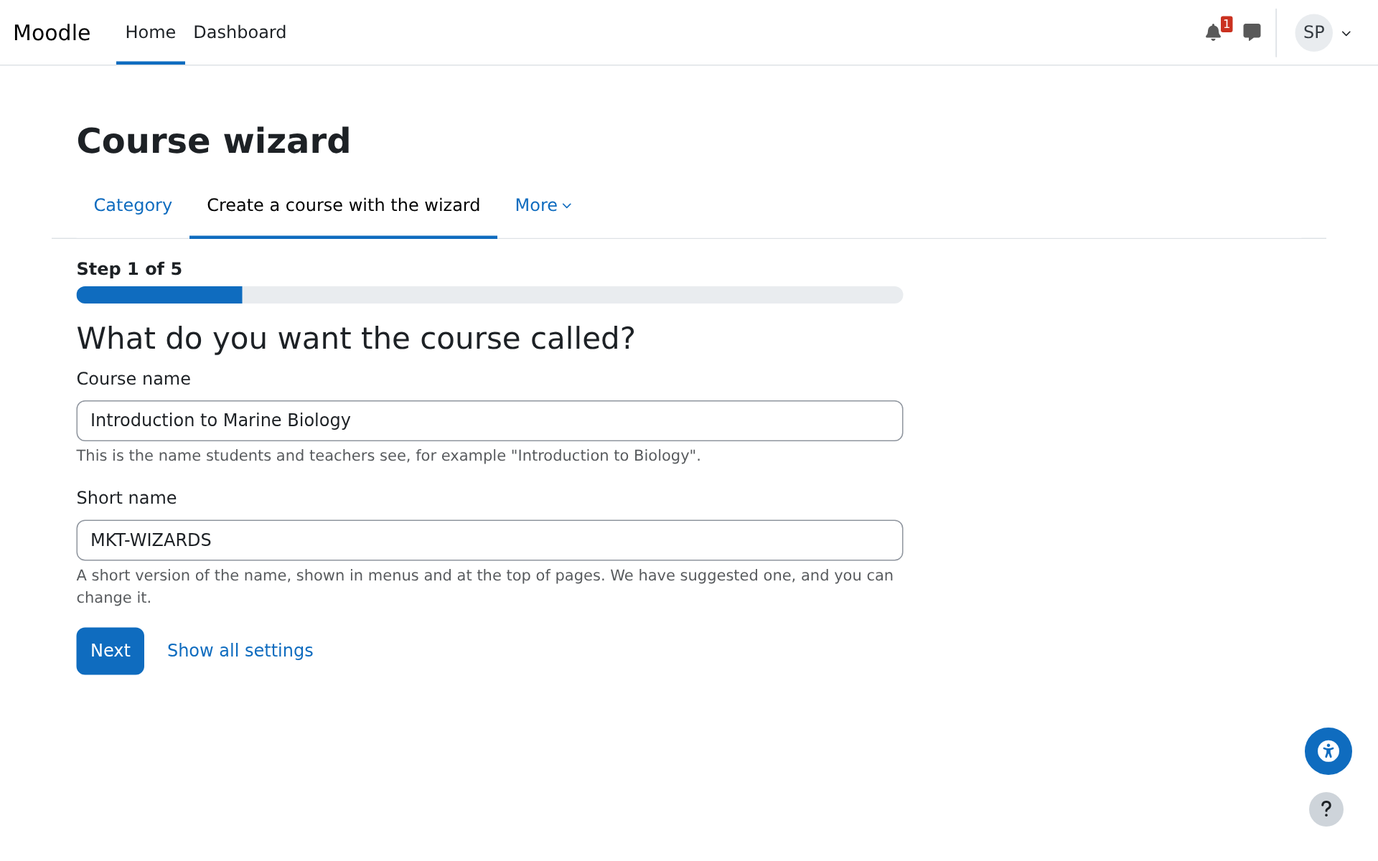
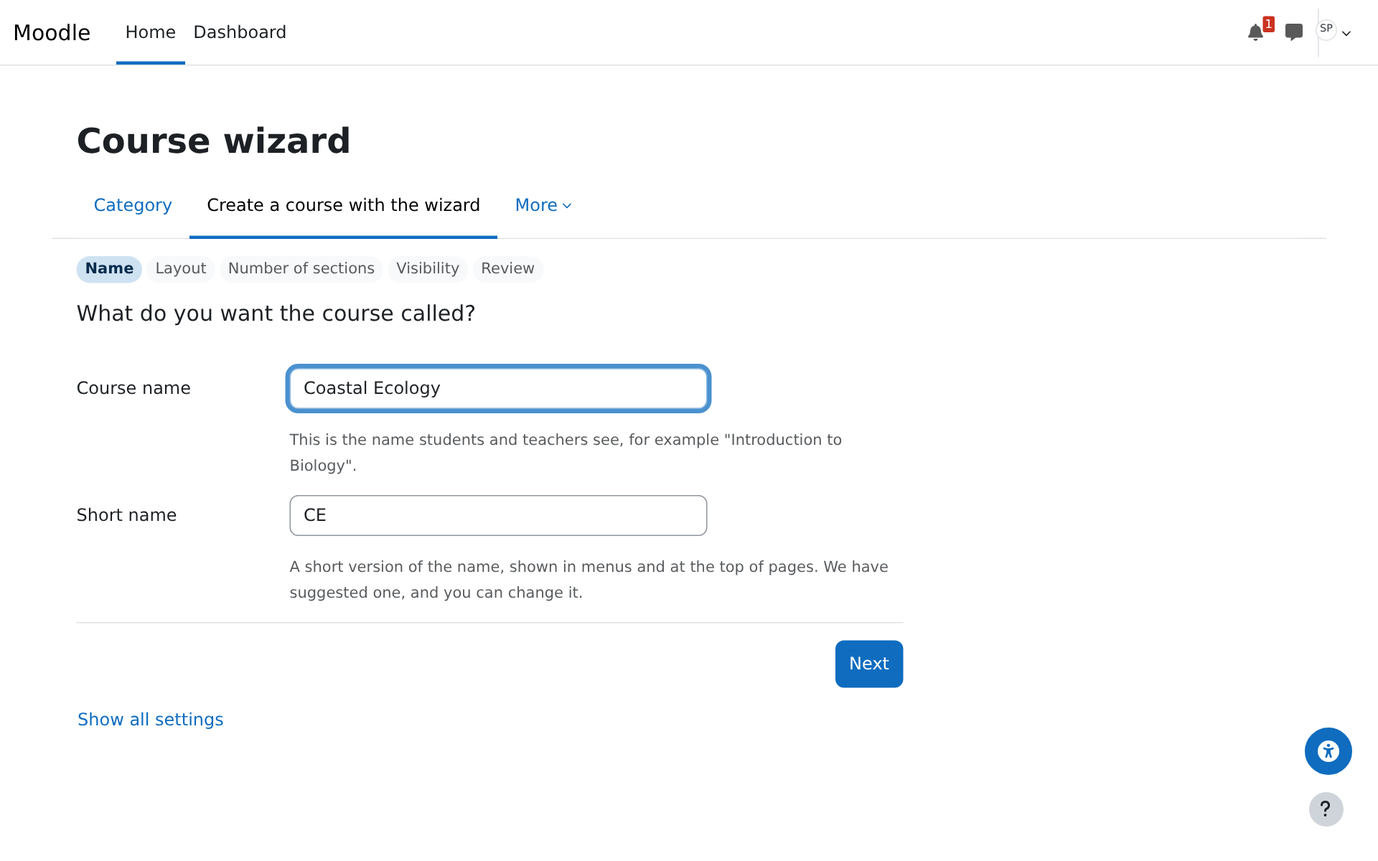
Suggest short names without the year; refresh the camp listing
The course wizard now suggests a course's initials as its short name
("Coastal Ecology" becomes "CE"), without the year, since courses are often
reused from year to year. A number is still added when the name is taken.

Fix three display problems found while taking new screenshots: the course
wizard page showed its heading twice, the review screen listed each layout
choice as a separate answer, and the wizard builder's settings step showed a
course's navigation because the page renderer stayed attached to the page
used to read the activity form.

Replace the camp listing screenshots with ten new ones covering the course
and activity wizards, "Add with a wizard", and managing, editing and building
wizards. Rewrite the listing's summary, description and captions to match,
within the camp schema's limits (ten screenshots, captions of 120 characters).

diff --git a/amd/build/modal_stepper.min.js b/amd/build/modal_stepper.min.js
@@ -11,6 +11,6 @@ define("tool_wizards/modal_stepper",["exports","core/ajax","core_form/events","c
    * @module     tool_wizards/modal_stepper
    * @copyright  2026 Adam Jenkins <adam@wisecat.net>
    * @license    http://www.gnu.org/copyleft/gpl.html GNU GPL v3 or later
-   */Object.defineProperty(_exports,"__esModule",{value:!0}),_exports.init=void 0,_ajax=(obj=_ajax)&&obj.__esModule?obj:{default:obj};const hasError=step=>!!step.querySelector('.is-invalid, [aria-invalid="true"]')||Array.from(step.querySelectorAll(".invalid-feedback, .error")).some((el=>""!==el.textContent.trim()));_exports.init=selector=>{const form=document.querySelector(selector);form&&!form.dataset.stepperInitialised&&(form.dataset.stepperInitialised="1",new Stepper(form).start())};const data=(el,name,fallback)=>{try{return el.dataset[name]?JSON.parse(el.dataset[name]):fallback}catch(e){return fallback}};class Stepper{constructor(form){this.form=form,this.steps=Array.from(form.querySelectorAll("fieldset.tool_wizards-step")),this.nav=form.querySelector('[data-region="tool_wizards-stepnav"]'),this.presets=this.nav?data(this.nav,"presets",{}):{},this.touched=new Set,this.filling=!1,this.current=0,this.suggesttimer=null}start(){var _this$nav$querySelect;if(!this.nav||!this.steps.length)return;this.hideModalSave(),null===(_this$nav$querySelect=this.nav.querySelector('[data-wizard="nojs"]'))||void 0===_this$nav$querySelect||_this$nav$querySelect.remove(),this.progress=this.buildProgress(),this.nav.addEventListener("click",(e=>{const button=e.target.closest("[data-wizard]");button&&(e.preventDefault(),this.act(button.dataset.wizard))})),this.form.addEventListener("click",(e=>{const change=e.target.closest("[data-wizard-goto]");change&&(e.preventDefault(),this.show(Number(change.dataset.wizardGoto),!0))})),this.form.addEventListener("keydown",(e=>{"Enter"!==e.key||"INPUT"!==e.target.tagName||["submit","button"].includes(e.target.type)||(e.preventDefault(),this.act(this.isLast()?"add":"next"))})),this.form.addEventListener("change",(e=>{const name=e.target.name;!this.filling&&name&&(this.touched.add(name),this.presets[name]&&this.presets[name][this.value(name)]&&this.applyPreset(this.presets[name][this.value(name)]),this.applyConditions())})),this.form.addEventListener("input",(()=>this.applyConditions())),this.setupShortname(),this.applyConditions();const withError=this.steps.findIndex(hasError);this.show(withError>0?withError:0,withError>0)}act(action){"back"===action?this.show(this.neighbour(-1),!0):"next"===action?this.checkStep()&&this.show(this.neighbour(1),!0):"go"!==action&&"add"!==action||this.checkStep()&&this.form.requestSubmit()}neighbour(direction){for(let i=this.current+direction;i>=0&&i<this.steps.length;i+=direction)if(this.applies(this.steps[i]))return i;return this.current}applies(step){if(!this.holds(data(step,"when",null)))return!1;const conds=data(step,"itemwhen",{}),items=data(step,"items",[]);return!items.length||items.some((key=>!conds[key]||this.holds(conds[key])))}isLast(){return this.neighbour(1)===this.current}show(index,focus){this.current=index,this.steps.forEach(((step,i)=>{step.hidden=i!==index}));const button=name=>this.nav.querySelector('[data-wizard="'.concat(name,'"]')),first=this.neighbour(-1)===index;var _this$steps$index$que;(button("back").hidden=first,button("next").hidden=this.isLast(),button("add").hidden=!this.isLast(),button("go").hidden=first||this.isLast(),this.steps[index].querySelector('[data-region="tool_wizards-review"]')&&this.buildReview(this.steps[index].querySelector('[data-region="tool_wizards-review"]')),this.updateProgress(),focus)&&(null===(_this$steps$index$que=this.steps[index].querySelector("legend"))||void 0===_this$steps$index$que||_this$steps$index$que.focus())}buildProgress(){if(this.steps.length<2)return null;const list=document.createElement("ol");return list.className="tool_wizards-progress list-unstyled d-flex flex-wrap gap-1 small mb-3",list.setAttribute("aria-label",this.nav.dataset.progresslabel),this.steps.forEach((step=>{const item=document.createElement("li");item.textContent=step.dataset.title,list.append(item)})),this.steps[0].before(list),list}updateProgress(){var _this$progress;null===(_this$progress=this.progress)||void 0===_this$progress||_this$progress.querySelectorAll("li").forEach(((item,i)=>{item.hidden=!this.applies(this.steps[i]),item.classList.toggle("active",i===this.current),item.classList.toggle("done",i<this.current),i===this.current?item.setAttribute("aria-current","step"):item.removeAttribute("aria-current")}))}value(name){const controls=Array.from(this.form.querySelectorAll('[name="'.concat(CSS.escape(name),'"]')));if(!controls.length){const editor=this.form.querySelector('[name="'.concat(CSS.escape(name),'[text]"]'));return editor?editor.value:null}if("radio"===controls[0].type){const checked=controls.find((c=>c.checked));return checked?checked.value:null}const checkbox=controls.find((c=>"checkbox"===c.type));return checkbox?checkbox.checked?checkbox.value||"1":"0":controls[controls.length-1].value}flags(name){const checked=this.form.querySelector('input[name="'.concat(CSS.escape(name),'"]:checked')),holder=null==checked?void 0:checked.closest("[data-flags]");return holder?holder.dataset.flags.split(" "):[]}holds(cond){if(null==cond||!0===cond)return!0;if(!1===cond)return!1;if(cond.all)return cond.all.every((c=>this.holds(c)));if(cond.any)return cond.any.some((c=>this.holds(c)));if("not"in cond&&!("answer"in cond))return!this.holds(cond.not);if("answer"in cond){const value=this.value(cond.answer);if("is"in cond)return null!==value&&value===String(cond.is);if("not"in cond)return null===value||value!==String(cond.not);if("in"in cond)return null!==value&&cond.in.map(String).includes(value);if("has"in cond)return this.flags(cond.answer).includes(cond.has);if("empty"in cond)return""===(null!=value?value:"").trim()==!!cond.empty}return!1}applyConditions(){this.steps.forEach((step=>{const conds=data(step,"itemwhen",{});Object.entries(conds).forEach((_ref=>{let[key,cond]=_ref;const container=this.container(key);container&&(container.hidden=!this.holds(cond))}))})),this.form.querySelectorAll(".tool_wizards-cardinput[data-when]").forEach((label=>{const ok=this.holds(data(label,"when",null)),input=label.querySelector("input");label.hidden=!ok,!ok&&null!=input&&input.checked&&(input.checked=!1)})),this.updateProgress()}container(key){const group=this.form.querySelector('[data-groupname="'.concat(CSS.escape(key),'group"]'));if(group)return group;const marked=this.form.querySelector('[data-wizard-question="'.concat(CSS.escape(key),'"]'));if(marked)return marked.closest(".fitem")||marked;const control=this.form.querySelector('[name="'.concat(CSS.escape(key),'"], [name^="').concat(CSS.escape(key),'["]'));return control?control.closest(".fitem"):null}checkStep(){const step=this.steps[this.current];(0,_events.notifyFormSubmittedByJavascript)(this.form);let ok=!0;var _step$querySelector;(data(step,"required",[]).forEach((entry=>{const key="string"==typeof entry?entry:entry.key;if("string"!=typeof entry&&!this.holds(entry.when))return;const container=this.container(key);if(null!=container&&container.hidden)return;const value=this.value(key),text=(null!=value?value:"").replace(/<(?!img|video|audio|iframe|object)[^>]*>/gi,"").replace(/&nbsp;/g," ");if(null===value||""===text.trim()){const target=this.form.querySelector('[name="'.concat(CSS.escape(key),'"], [name="').concat(CSS.escape(key),'[text]"]'));target&&this.markInvalid(target),ok=!1}})),ok)?null===(_step$querySelector=step.querySelector(".tool_wizards-steperror"))||void 0===_step$querySelector||_step$querySelector.remove():this.showStepError(step);return ok}markInvalid(input){input.classList.add("is-invalid"),input.setAttribute("aria-invalid","true");const clear=()=>{this.form.querySelectorAll('[name="'.concat(CSS.escape(input.name),'"]')).forEach((el=>{el.classList.remove("is-invalid"),el.removeAttribute("aria-invalid")}))};input.addEventListener("input",clear,{once:!0}),input.addEventListener("change",clear,{once:!0})}async showStepError(step){var _step$querySelector2;let message=step.querySelector(".tool_wizards-steperror");message||(message=document.createElement("div"),message.className="tool_wizards-steperror alert alert-danger py-2",message.setAttribute("role","alert"),step.querySelector("legend").after(message)),message.textContent=await(0,_str.getString)("error_stepincomplete","tool_wizards"),null===(_step$querySelector2=step.querySelector('[aria-invalid="true"]'))||void 0===_step$querySelector2||_step$querySelector2.focus()}applyPreset(preset){this.filling=!0,Object.entries(preset).forEach((_ref2=>{let[name,value]=_ref2;this.touched.has(name)||this.form.querySelectorAll('[name="'.concat(CSS.escape(name),'"]')).forEach((control=>{if("radio"===control.type)control.checked=control.value===String(value);else if("checkbox"===control.type)control.checked="1"===String(value);else{if("hidden"===control.type)return;control.value=String(value)}control.dispatchEvent(new Event("change",{bubbles:!0}))}))})),this.filling=!1}async buildReview(region){const[changeLabel,yes,no]=await(0,_str.getStrings)([{key:"change",component:"tool_wizards"},{key:"yes",component:"core"},{key:"no",component:"core"}]),list=document.createElement("dl");list.className="row",this.steps.forEach(((step,index)=>{index>=this.current||!this.applies(step)||step.querySelectorAll(".fitem").forEach((item=>{var _item$querySelector;if(item.hidden||item.closest("[hidden]")!==step&&item.closest("[hidden]"))return;const answer=this.describeItem(item,yes,no);if(null===answer)return;const label=(null===(_item$querySelector=item.querySelector(".col-form-label label, .col-form-label p, .col-form-label"))||void 0===_item$querySelector?void 0:_item$querySelector.textContent.trim())||step.dataset.title,dt=document.createElement("dt");dt.className="col-sm-4",dt.textContent=label;const dd=document.createElement("dd");dd.className="col-sm-8",dd.textContent=answer+" ";const change=document.createElement("button");change.type="button",change.className="btn btn-link btn-sm p-0 align-baseline",change.dataset.wizardGoto=String(index),change.textContent=changeLabel,dd.append(change),list.append(dt,dd)}))})),region.replaceChildren(list)}describeItem(item,yes,no){const checkedRadio=item.querySelector('input[type="radio"]:checked');var _checkedRadio$closest,_checkedRadio$closest2,_checkedRadio$closest3;if(item.querySelector('input[type="radio"]'))return checkedRadio?(null===(_checkedRadio$closest=checkedRadio.closest("label"))||void 0===_checkedRadio$closest||null===(_checkedRadio$closest2=_checkedRadio$closest.querySelector("strong"))||void 0===_checkedRadio$closest2?void 0:_checkedRadio$closest2.textContent)||(null===(_checkedRadio$closest3=checkedRadio.closest("label"))||void 0===_checkedRadio$closest3?void 0:_checkedRadio$closest3.textContent.trim())||checkedRadio.value:"–";const select=item.querySelector("select");var _select$options$selec,_select$options$selec2;if(select&&!item.querySelector('[name$="[day]"]'))return null!==(_select$options$selec=null===(_select$options$selec2=select.options[select.selectedIndex])||void 0===_select$options$selec2?void 0:_select$options$selec2.textContent.trim())&&void 0!==_select$options$selec?_select$options$selec:"";if(item.querySelector('[name$="[day]"]')){const enabled=item.querySelector('input[name$="[enabled]"]');return enabled&&!enabled.checked?"–":Array.from(item.querySelectorAll("select")).map((s=>{var _s$options$s$selected;return null===(_s$options$s$selected=s.options[s.selectedIndex])||void 0===_s$options$s$selected?void 0:_s$options$s$selected.textContent.trim()})).join(" ")}const checkbox=item.querySelector('input[type="checkbox"]');if(checkbox)return checkbox.checked?yes:no;const text=item.querySelector('input[type="text"], textarea');return text?text.value.trim()||"–":null}setupShortname(){const shortname=this.form.querySelector("[data-wizard-shortname]");if(!shortname)return;const source=shortname.dataset.wizardShortname?this.form.querySelector('[name="'.concat(CSS.escape(shortname.dataset.wizardShortname),'"]')):null;let edited=""!==shortname.value.trim();shortname.addEventListener("input",(()=>{edited=""!==shortname.value.trim()})),null==source||source.addEventListener("input",(()=>{edited||(clearTimeout(this.suggesttimer),this.suggesttimer=setTimeout((async()=>{if(edited||""===source.value.trim())return;const result=await _ajax.default.call([{methodname:"tool_wizards_suggest_shortname",args:{fullname:source.value}}])[0];edited||(shortname.value=result.shortname)}),400))})),shortname.addEventListener("change",(async()=>{var _shortname$closest;if(""===shortname.value.trim())return;const result=await _ajax.default.call([{methodname:"tool_wizards_check_shortname",args:{shortname:shortname.value}}])[0],feedback=null===(_shortname$closest=shortname.closest(".fitem"))||void 0===_shortname$closest?void 0:_shortname$closest.querySelector(".form-control-feedback");!result.available&&feedback?(feedback.textContent=await(0,_str.getString)("shortname_taken","tool_wizards",{suggestion:result.suggestion}),feedback.style.display="block",shortname.classList.add("is-invalid")):feedback&&(feedback.textContent="",shortname.classList.remove("is-invalid"))}))}hideModalSave(){var _this$form$closest;const save=null===(_this$form$closest=this.form.closest(".modal"))||void 0===_this$form$closest?void 0:_this$form$closest.querySelector('.modal-footer [data-action="save"]');save&&(save.hidden=!0,save.classList.add("d-none"))}}}));
+   */Object.defineProperty(_exports,"__esModule",{value:!0}),_exports.init=void 0,_ajax=(obj=_ajax)&&obj.__esModule?obj:{default:obj};const hasError=step=>!!step.querySelector('.is-invalid, [aria-invalid="true"]')||Array.from(step.querySelectorAll(".invalid-feedback, .error")).some((el=>""!==el.textContent.trim()));_exports.init=selector=>{const form=document.querySelector(selector);form&&!form.dataset.stepperInitialised&&(form.dataset.stepperInitialised="1",new Stepper(form).start())};const data=(el,name,fallback)=>{try{return el.dataset[name]?JSON.parse(el.dataset[name]):fallback}catch(e){return fallback}};class Stepper{constructor(form){this.form=form,this.steps=Array.from(form.querySelectorAll("fieldset.tool_wizards-step")),this.nav=form.querySelector('[data-region="tool_wizards-stepnav"]'),this.presets=this.nav?data(this.nav,"presets",{}):{},this.touched=new Set,this.filling=!1,this.current=0,this.suggesttimer=null}start(){var _this$nav$querySelect;if(!this.nav||!this.steps.length)return;this.hideModalSave(),null===(_this$nav$querySelect=this.nav.querySelector('[data-wizard="nojs"]'))||void 0===_this$nav$querySelect||_this$nav$querySelect.remove(),this.progress=this.buildProgress(),this.nav.addEventListener("click",(e=>{const button=e.target.closest("[data-wizard]");button&&(e.preventDefault(),this.act(button.dataset.wizard))})),this.form.addEventListener("click",(e=>{const change=e.target.closest("[data-wizard-goto]");change&&(e.preventDefault(),this.show(Number(change.dataset.wizardGoto),!0))})),this.form.addEventListener("keydown",(e=>{"Enter"!==e.key||"INPUT"!==e.target.tagName||["submit","button"].includes(e.target.type)||(e.preventDefault(),this.act(this.isLast()?"add":"next"))})),this.form.addEventListener("change",(e=>{const name=e.target.name;!this.filling&&name&&(this.touched.add(name),this.presets[name]&&this.presets[name][this.value(name)]&&this.applyPreset(this.presets[name][this.value(name)]),this.applyConditions())})),this.form.addEventListener("input",(()=>this.applyConditions())),this.setupShortname(),this.applyConditions();const withError=this.steps.findIndex(hasError);this.show(withError>0?withError:0,withError>0)}act(action){"back"===action?this.show(this.neighbour(-1),!0):"next"===action?this.checkStep()&&this.show(this.neighbour(1),!0):"go"!==action&&"add"!==action||this.checkStep()&&this.form.requestSubmit()}neighbour(direction){for(let i=this.current+direction;i>=0&&i<this.steps.length;i+=direction)if(this.applies(this.steps[i]))return i;return this.current}applies(step){if(!this.holds(data(step,"when",null)))return!1;const conds=data(step,"itemwhen",{}),items=data(step,"items",[]);return!items.length||items.some((key=>!conds[key]||this.holds(conds[key])))}isLast(){return this.neighbour(1)===this.current}show(index,focus){this.current=index,this.steps.forEach(((step,i)=>{step.hidden=i!==index}));const button=name=>this.nav.querySelector('[data-wizard="'.concat(name,'"]')),first=this.neighbour(-1)===index;var _this$steps$index$que;(button("back").hidden=first,button("next").hidden=this.isLast(),button("add").hidden=!this.isLast(),button("go").hidden=first||this.isLast(),this.steps[index].querySelector('[data-region="tool_wizards-review"]')&&this.buildReview(this.steps[index].querySelector('[data-region="tool_wizards-review"]')),this.updateProgress(),focus)&&(null===(_this$steps$index$que=this.steps[index].querySelector("legend"))||void 0===_this$steps$index$que||_this$steps$index$que.focus())}buildProgress(){if(this.steps.length<2)return null;const list=document.createElement("ol");return list.className="tool_wizards-progress list-unstyled d-flex flex-wrap gap-1 small mb-3",list.setAttribute("aria-label",this.nav.dataset.progresslabel),this.steps.forEach((step=>{const item=document.createElement("li");item.textContent=step.dataset.title,list.append(item)})),this.steps[0].before(list),list}updateProgress(){var _this$progress;null===(_this$progress=this.progress)||void 0===_this$progress||_this$progress.querySelectorAll("li").forEach(((item,i)=>{item.hidden=!this.applies(this.steps[i]),item.classList.toggle("active",i===this.current),item.classList.toggle("done",i<this.current),i===this.current?item.setAttribute("aria-current","step"):item.removeAttribute("aria-current")}))}value(name){const controls=Array.from(this.form.querySelectorAll('[name="'.concat(CSS.escape(name),'"]')));if(!controls.length){const editor=this.form.querySelector('[name="'.concat(CSS.escape(name),'[text]"]'));return editor?editor.value:null}if("radio"===controls[0].type){const checked=controls.find((c=>c.checked));return checked?checked.value:null}const checkbox=controls.find((c=>"checkbox"===c.type));return checkbox?checkbox.checked?checkbox.value||"1":"0":controls[controls.length-1].value}flags(name){const checked=this.form.querySelector('input[name="'.concat(CSS.escape(name),'"]:checked')),holder=null==checked?void 0:checked.closest("[data-flags]");return holder?holder.dataset.flags.split(" "):[]}holds(cond){if(null==cond||!0===cond)return!0;if(!1===cond)return!1;if(cond.all)return cond.all.every((c=>this.holds(c)));if(cond.any)return cond.any.some((c=>this.holds(c)));if("not"in cond&&!("answer"in cond))return!this.holds(cond.not);if("answer"in cond){const value=this.value(cond.answer);if("is"in cond)return null!==value&&value===String(cond.is);if("not"in cond)return null===value||value!==String(cond.not);if("in"in cond)return null!==value&&cond.in.map(String).includes(value);if("has"in cond)return this.flags(cond.answer).includes(cond.has);if("empty"in cond)return""===(null!=value?value:"").trim()==!!cond.empty}return!1}applyConditions(){this.steps.forEach((step=>{const conds=data(step,"itemwhen",{});Object.entries(conds).forEach((_ref=>{let[key,cond]=_ref;const container=this.container(key);container&&(container.hidden=!this.holds(cond))}))})),this.form.querySelectorAll(".tool_wizards-cardinput[data-when]").forEach((label=>{const ok=this.holds(data(label,"when",null)),input=label.querySelector("input");label.hidden=!ok,!ok&&null!=input&&input.checked&&(input.checked=!1)})),this.updateProgress()}container(key){const group=this.form.querySelector('[data-groupname="'.concat(CSS.escape(key),'group"]'));if(group)return group;const marked=this.form.querySelector('[data-wizard-question="'.concat(CSS.escape(key),'"]'));if(marked)return marked.closest(".fitem")||marked;const control=this.form.querySelector('[name="'.concat(CSS.escape(key),'"], [name^="').concat(CSS.escape(key),'["]'));return control?control.closest(".fitem"):null}checkStep(){const step=this.steps[this.current];(0,_events.notifyFormSubmittedByJavascript)(this.form);let ok=!0;var _step$querySelector;(data(step,"required",[]).forEach((entry=>{const key="string"==typeof entry?entry:entry.key;if("string"!=typeof entry&&!this.holds(entry.when))return;const container=this.container(key);if(null!=container&&container.hidden)return;const value=this.value(key),text=(null!=value?value:"").replace(/<(?!img|video|audio|iframe|object)[^>]*>/gi,"").replace(/&nbsp;/g," ");if(null===value||""===text.trim()){const target=this.form.querySelector('[name="'.concat(CSS.escape(key),'"], [name="').concat(CSS.escape(key),'[text]"]'));target&&this.markInvalid(target),ok=!1}})),ok)?null===(_step$querySelector=step.querySelector(".tool_wizards-steperror"))||void 0===_step$querySelector||_step$querySelector.remove():this.showStepError(step);return ok}markInvalid(input){input.classList.add("is-invalid"),input.setAttribute("aria-invalid","true");const clear=()=>{this.form.querySelectorAll('[name="'.concat(CSS.escape(input.name),'"]')).forEach((el=>{el.classList.remove("is-invalid"),el.removeAttribute("aria-invalid")}))};input.addEventListener("input",clear,{once:!0}),input.addEventListener("change",clear,{once:!0})}async showStepError(step){var _step$querySelector2;let message=step.querySelector(".tool_wizards-steperror");message||(message=document.createElement("div"),message.className="tool_wizards-steperror alert alert-danger py-2",message.setAttribute("role","alert"),step.querySelector("legend").after(message)),message.textContent=await(0,_str.getString)("error_stepincomplete","tool_wizards"),null===(_step$querySelector2=step.querySelector('[aria-invalid="true"]'))||void 0===_step$querySelector2||_step$querySelector2.focus()}applyPreset(preset){this.filling=!0,Object.entries(preset).forEach((_ref2=>{let[name,value]=_ref2;this.touched.has(name)||this.form.querySelectorAll('[name="'.concat(CSS.escape(name),'"]')).forEach((control=>{if("radio"===control.type)control.checked=control.value===String(value);else if("checkbox"===control.type)control.checked="1"===String(value);else{if("hidden"===control.type)return;control.value=String(value)}control.dispatchEvent(new Event("change",{bubbles:!0}))}))})),this.filling=!1}async buildReview(region){const[changeLabel,yes,no]=await(0,_str.getStrings)([{key:"change",component:"tool_wizards"},{key:"yes",component:"core"},{key:"no",component:"core"}]),list=document.createElement("dl");list.className="row",this.steps.forEach(((step,index)=>{if(index>=this.current||!this.applies(step))return;Array.from(step.querySelectorAll(".fitem")).filter((item=>!item.parentElement.closest(".fitem"))).forEach((item=>{var _item$querySelector;if(item.hidden||item.closest("[hidden]")!==step&&item.closest("[hidden]"))return;const answer=this.describeItem(item,yes,no);if(null===answer)return;const label=(null===(_item$querySelector=item.querySelector(".col-form-label label, .col-form-label p, .col-form-label"))||void 0===_item$querySelector?void 0:_item$querySelector.textContent.trim())||step.dataset.title,dt=document.createElement("dt");dt.className="col-sm-4",dt.textContent=label;const dd=document.createElement("dd");dd.className="col-sm-8",dd.textContent=answer+" ";const change=document.createElement("button");change.type="button",change.className="btn btn-link btn-sm p-0 align-baseline",change.dataset.wizardGoto=String(index),change.textContent=changeLabel,dd.append(change),list.append(dt,dd)}))})),region.replaceChildren(list)}describeItem(item,yes,no){const checkedRadio=item.querySelector('input[type="radio"]:checked');var _checkedRadio$closest,_checkedRadio$closest2,_checkedRadio$closest3;if(item.querySelector('input[type="radio"]'))return checkedRadio?(null===(_checkedRadio$closest=checkedRadio.closest("label"))||void 0===_checkedRadio$closest||null===(_checkedRadio$closest2=_checkedRadio$closest.querySelector("strong"))||void 0===_checkedRadio$closest2?void 0:_checkedRadio$closest2.textContent)||(null===(_checkedRadio$closest3=checkedRadio.closest("label"))||void 0===_checkedRadio$closest3?void 0:_checkedRadio$closest3.textContent.trim())||checkedRadio.value:"–";const select=item.querySelector("select");var _select$options$selec,_select$options$selec2;if(select&&!item.querySelector('[name$="[day]"]'))return null!==(_select$options$selec=null===(_select$options$selec2=select.options[select.selectedIndex])||void 0===_select$options$selec2?void 0:_select$options$selec2.textContent.trim())&&void 0!==_select$options$selec?_select$options$selec:"";if(item.querySelector('[name$="[day]"]')){const enabled=item.querySelector('input[name$="[enabled]"]');return enabled&&!enabled.checked?"–":Array.from(item.querySelectorAll("select")).map((s=>{var _s$options$s$selected;return null===(_s$options$s$selected=s.options[s.selectedIndex])||void 0===_s$options$s$selected?void 0:_s$options$s$selected.textContent.trim()})).join(" ")}const checkbox=item.querySelector('input[type="checkbox"]');if(checkbox)return checkbox.checked?yes:no;const text=item.querySelector('input[type="text"], textarea');return text?text.value.trim()||"–":null}setupShortname(){const shortname=this.form.querySelector("[data-wizard-shortname]");if(!shortname)return;const source=shortname.dataset.wizardShortname?this.form.querySelector('[name="'.concat(CSS.escape(shortname.dataset.wizardShortname),'"]')):null;let edited=""!==shortname.value.trim();shortname.addEventListener("input",(()=>{edited=""!==shortname.value.trim()})),null==source||source.addEventListener("input",(()=>{edited||(clearTimeout(this.suggesttimer),this.suggesttimer=setTimeout((async()=>{if(edited||""===source.value.trim())return;const result=await _ajax.default.call([{methodname:"tool_wizards_suggest_shortname",args:{fullname:source.value}}])[0];edited||(shortname.value=result.shortname)}),400))})),shortname.addEventListener("change",(async()=>{var _shortname$closest;if(""===shortname.value.trim())return;const result=await _ajax.default.call([{methodname:"tool_wizards_check_shortname",args:{shortname:shortname.value}}])[0],feedback=null===(_shortname$closest=shortname.closest(".fitem"))||void 0===_shortname$closest?void 0:_shortname$closest.querySelector(".form-control-feedback");!result.available&&feedback?(feedback.textContent=await(0,_str.getString)("shortname_taken","tool_wizards",{suggestion:result.suggestion}),feedback.style.display="block",shortname.classList.add("is-invalid")):feedback&&(feedback.textContent="",shortname.classList.remove("is-invalid"))}))}hideModalSave(){var _this$form$closest;const save=null===(_this$form$closest=this.form.closest(".modal"))||void 0===_this$form$closest?void 0:_this$form$closest.querySelector('.modal-footer [data-action="save"]');save&&(save.hidden=!0,save.classList.add("d-none"))}}}));
 
 //# sourceMappingURL=modal_stepper.min.js.map

diff --git a/amd/src/modal_stepper.js b/amd/src/modal_stepper.js
@@ -510,7 +510,9 @@ class Stepper {
             if (index >= this.current || !this.applies(step)) {
                 return;
             }
-            step.querySelectorAll('.fitem').forEach(item => {
+            // Formslib also gives each radio's label the fitem class: take only the outer items.
+            const items = Array.from(step.querySelectorAll('.fitem')).filter(item => !item.parentElement.closest('.fitem'));
+            items.forEach(item => {
                 if (item.hidden || item.closest('[hidden]') !== step && item.closest('[hidden]')) {
                     return;
                 }

diff --git a/tests/local/course_creator_test.php b/tests/local/course_creator_test.php
@@ -396,23 +396,22 @@ final class course_creator_test extends advanced_testcase {
     }
 
     /**
-     * Short name suggestions: initials and year for Latin names, the name itself otherwise, and never a taken one.
+     * Short name suggestions: initials (no year) for Latin names, the name itself otherwise, and never a taken one.
      */
     public function test_suggest_shortname(): void {
         $this->resetAfterTest();
         $this->setAdminUser();
-        $year = userdate(time(), '%Y');
-        $this->assertSame('ITB-' . $year, course_creator::suggest_shortname('Introduction to Biology'));
+        $this->assertSame('ITB', course_creator::suggest_shortname('Introduction to Biology'));
         $this->assertSame('生物学入門', course_creator::suggest_shortname('生物学入門'));
         $this->assertSame('', course_creator::suggest_shortname('   '));
 
-        $this->getDataGenerator()->create_course(['shortname' => 'ITB-' . $year]);
-        $this->assertSame('ITB-' . $year . ' 2', course_creator::suggest_shortname('Introduction to Biology'));
+        $this->getDataGenerator()->create_course(['shortname' => 'ITB']);
+        $this->assertSame('ITB 2', course_creator::suggest_shortname('Introduction to Biology'));
 
         // A missing short name is suggested on the server too, for browsers without JavaScript.
         $answers = course_creator::normalise_answers(['fullname' => 'Introduction to Biology', 'shortname' => '',
             'category' => 1, 'format' => 'topics']);
-        $this->assertSame('ITB-' . $year . ' 2', $answers->shortname);
+        $this->assertSame('ITB 2', $answers->shortname);
     }
 
     /**

diff --git a/classes/local/course_creator.php b/classes/local/course_creator.php
@@ -146,10 +146,10 @@ class course_creator {
     /**
      * Suggest an unused short name for a course full name.
      *
-     * Latin words give their initials plus the year ("Introduction to Biology" becomes
-     * "ITB-2026"); a name with no Latin letters (for example Japanese) is truncated
-     * instead, because short names may be any text. A number is added until the
-     * suggestion is free.
+     * Latin words give their initials ("Introduction to Biology" becomes "ITB"); a name
+     * with no Latin letters (for example Japanese) is truncated instead, because short
+     * names may be any text. No year is added: courses are often reused year after year.
+     * A number is added until the suggestion is free.
      *
      * @param string $fullname the full name
      * @return string the suggestion, or '' for an empty name
@@ -166,7 +166,7 @@ class course_creator {
             }
         }
         if (preg_match('/[A-Za-z]/', $initials)) {
-            $base = $initials . '-' . userdate(time(), '%Y');
+            $base = $initials;
         } else {
             $base = \core_text::substr($fullname, 0, self::SHORTNAME_SUGGESTION_LENGTH);
         }

diff --git a/classes/local/wizard/introspector.php b/classes/local/wizard/introspector.php
@@ -69,11 +69,13 @@ class introspector {
      * @return array list of ['field', 'label', 'type', 'choices' (value => label), 'header']
      */
     public static function settings(string $target): array {
-        global $PAGE, $COURSE;
+        global $PAGE, $COURSE, $OUTPUT;
         // Building an activity form sets the page's course and context, which a page already
-        // set up for output must not change: build it on a page of its own.
+        // set up for output must not change: build it on a page of its own. The renderer may
+        // attach itself to that page meanwhile, so it is put back too.
         $savedpage = $PAGE;
         $savedcourse = $COURSE;
+        $savedoutput = $OUTPUT;
         $PAGE = new \moodle_page();
         try {
             if ($target === 'course') {
@@ -88,6 +90,7 @@ class introspector {
         } finally {
             $PAGE = $savedpage;
             $COURSE = $savedcourse;
+            $OUTPUT = $savedoutput;
         }
         $mform = (new \ReflectionProperty(\moodleform::class, '_form'))->getValue($form);
         $out = [];

diff --git a/course.php b/course.php
@@ -99,6 +99,7 @@ if (!$record) {
 
 $engine = new engine(repository::definition($record), (int) $record->id, null, $categoryid);
 $PAGE->set_title(text::get($engine->definition()['title']));
+$PAGE->set_heading(text::get($engine->definition()['title']));
 $form = new tool_wizards\form\course_wizard_form($url, ['engine' => $engine, 'preview' => $preview]);
 $builder = new form_builder($engine, $form->get_form_for_wizard());
 $form->set_data(['wizard' => $record->wizardkey, 'startcategory' => $categoryid, 'preview' => (int) $preview,
@@ -141,7 +142,6 @@ if ($data = $form->get_data()) {
 }
 
 echo $OUTPUT->header();
-echo $OUTPUT->heading(text::get($engine->definition()['title']));
 if ($lines !== null) {
     echo $OUTPUT->notification(get_string('preview_result', 'tool_wizards'), 'info', false);
     echo html_writer::alist(array_map('s', $lines ?: [get_string('preview_nothing', 'tool_wizards')]));

diff --git a/tests/external/shortname_test.php b/tests/external/shortname_test.php
@@ -49,7 +49,7 @@ final class shortname_test extends \advanced_testcase {
             suggest_shortname::execute_returns(),
             suggest_shortname::execute('Basic Chemistry')
         );
-        $this->assertSame('BC-' . userdate(time(), '%Y'), $result['shortname']);
+        $this->assertSame('BC', $result['shortname']);
 
         $taken = external_api::clean_returnvalue(check_shortname::execute_returns(), check_shortname::execute('BIO-1'));
         $this->assertFalse($taken['available']);

diff --git a/changelog.md b/changelog.md
@@ -28,6 +28,8 @@ All notable changes to this plugin are documented here. The format follows
 
 ### Changed
 
+- The course wizard's suggested short name no longer ends with the year ("ITB", not "ITB-2026"),
+  as courses are often reused from year to year.
 - "Bring the wizards back" in the footer's help menu is now "Bring back the course wizards". It
   appears whenever the wizards were hidden on that course or switched off everywhere, also on a
   course with content, and shows the card again straight away.
